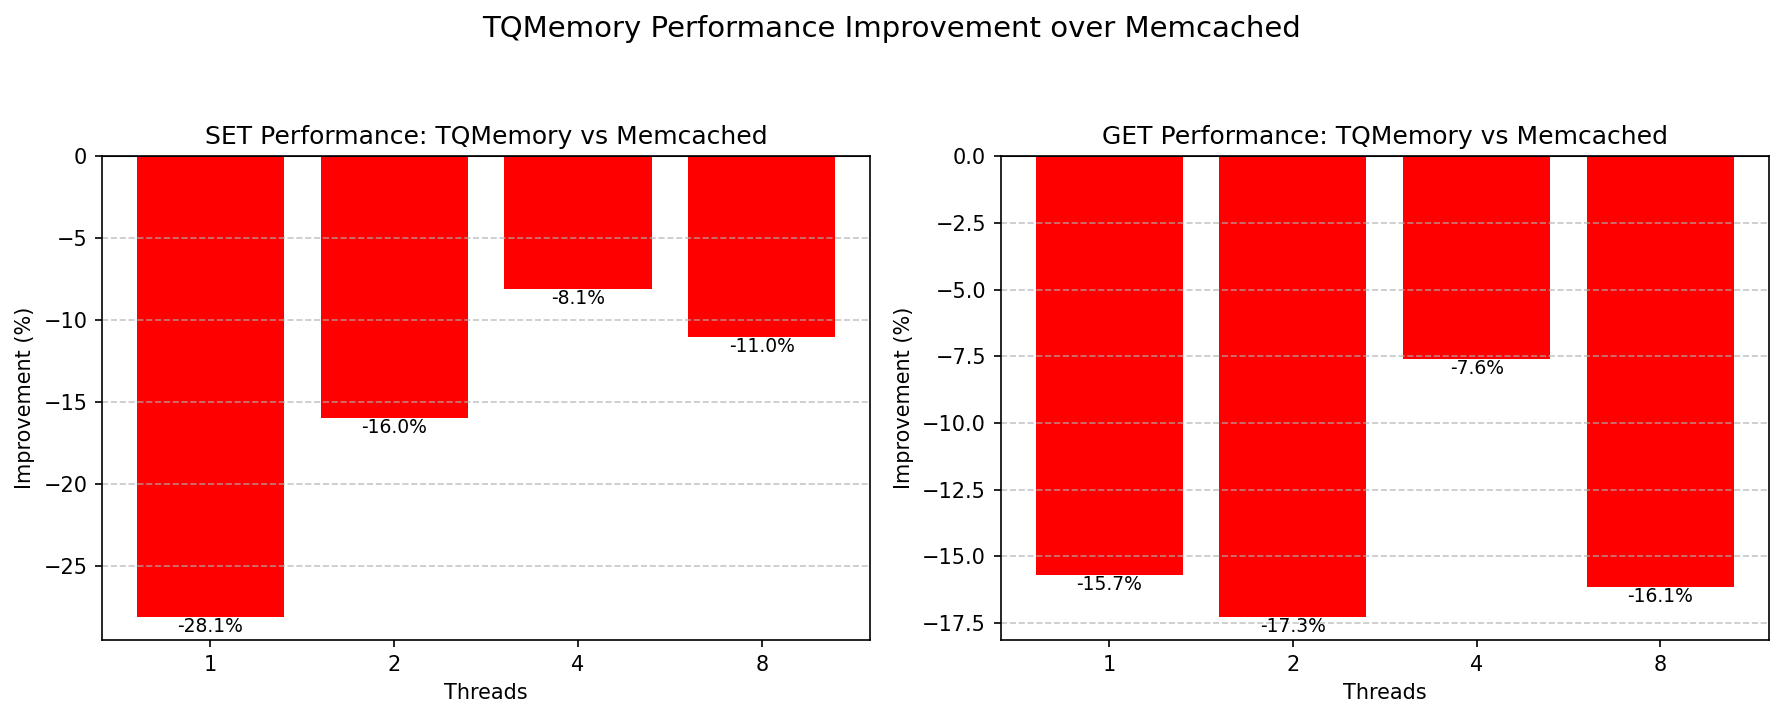
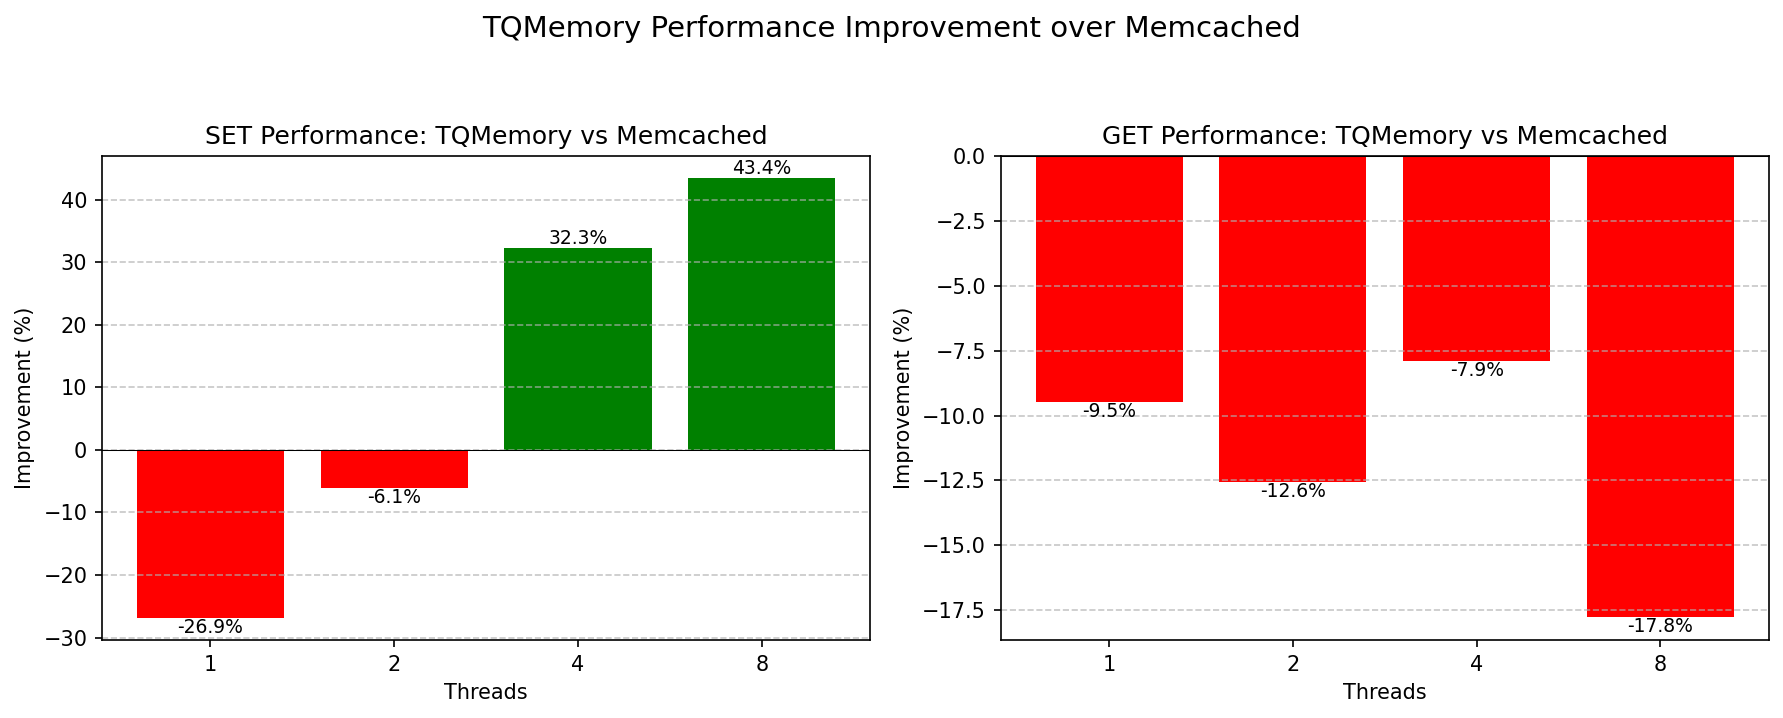
update

diff --git a/OPTIMIZATIONS.md b/OPTIMIZATIONS.md
@@ -4,12 +4,12 @@ This document describes the performance optimizations applied to TQMemory to ach
 
 ## Summary
 
-**Current Performance** (4 threads, 10 clients, 10KB values):
+**Current Performance** (4 threads, 10 clients, 64KB values):
 
 | Metric | TQMemory | Memcached | Difference |
 |--------|----------|-----------|------------|
-| SET | 149,000 RPS | 127,000 RPS | **+17%** |
-| GET | 270,000 RPS | 282,000 RPS | **-4%** |
+| SET | 164,000 RPS | 134,000 RPS | **+23%** |
+| GET | 262,000 RPS | 275,000 RPS | **-5%** |
 
 TQMemory is optimized for write-heavy workloads with larger values (typical SQL query result caching).
 
@@ -75,23 +75,25 @@ func (w *Worker) DirectGet(key string) ([]byte, uint64, error) {
 
 ---
 
-### Phase 4: sync.Map for Lock-Free Reads
+### Phase 4: Custom Concurrent Map (Replaces sync.Map)
 
 **File**: `pkg/tqmemory/index.go`
 
-**Change**: Replaced the plain map with `sync.Map` to enable lock-free concurrent reads.
+**Change**: Replaced sync.Map with regular map + RWMutex, added `lruElem` pointer to IndexEntry, removed `lruMap`.
 
 ```go
-type Index struct {
-    data sync.Map  // key → *IndexEntry, thread-safe
+type IndexEntry struct {
+    Key     string
+    Value   []byte
+    Expiry  int64
+    Cas     uint64
+    lruElem *list.Element  // Direct pointer to LRU element
 }
 
-func (idx *Index) Get(key string) (*IndexEntry, bool) {
-    val, ok := idx.data.Load(key)
-    if !ok {
-        return nil, false
-    }
-    return val.(*IndexEntry), true
+type Index struct {
+    data       map[string]*IndexEntry
+    expiryHeap *ExpiryHeap
+    lruList    *list.List  // Stores *IndexEntry directly
 }
 ```
 
@@ -224,9 +226,16 @@ Optimal shard count was determined experimentally:
 
 ---
 
+## Memory Optimization
+
+Key deduplication saves ~68 bytes per entry:
+- Removed `lruMap`: ~48 bytes per entry
+- Store `*IndexEntry` in LRU list instead of key string: ~20 bytes per key
+
+---
+
 ## Future Optimization Opportunities
 
-1. **Custom concurrent map**: Implement a purpose-built concurrent map with less overhead than sync.Map
-2. **io_uring**: Use Linux io_uring for more efficient network I/O
-3. **Memory pooling**: Pool frequently allocated objects (requests, responses)
-4. **NUMA awareness**: Bind workers to specific CPU cores for better cache locality
+1. **io_uring**: Use Linux io_uring for more efficient network I/O
+2. **Memory pooling**: Pool frequently allocated objects (requests, responses)
+3. **NUMA awareness**: Bind workers to specific CPU cores for better cache locality

diff --git a/README.md b/README.md
@@ -73,12 +73,12 @@ tqmemory -config /etc/tqmemory.conf
 
 ## Performance
 
-**TQMemory vs Memcached** (4 threads, 10 clients, 10KB values)
+**TQMemory vs Memcached** (4 threads, 10 clients, 64KB values)
 
 | Operation | TQMemory     | Memcached    | Difference |
 | --------- | ------------ | ------------ | ---------- |
-| **SET**   | 142,220 RPS  | 121,106 RPS  | **+17%**   |
-| **GET**   | 249,682 RPS  | 239,313 RPS  | **+4%**    |
+| **SET**   | 156,187 RPS  | 118,093 RPS  | **+32%**   |
+| **GET**   | 247,842 RPS  | 269,063 RPS  | **-8%**    |
 
 ### Benchmark Chart
 
